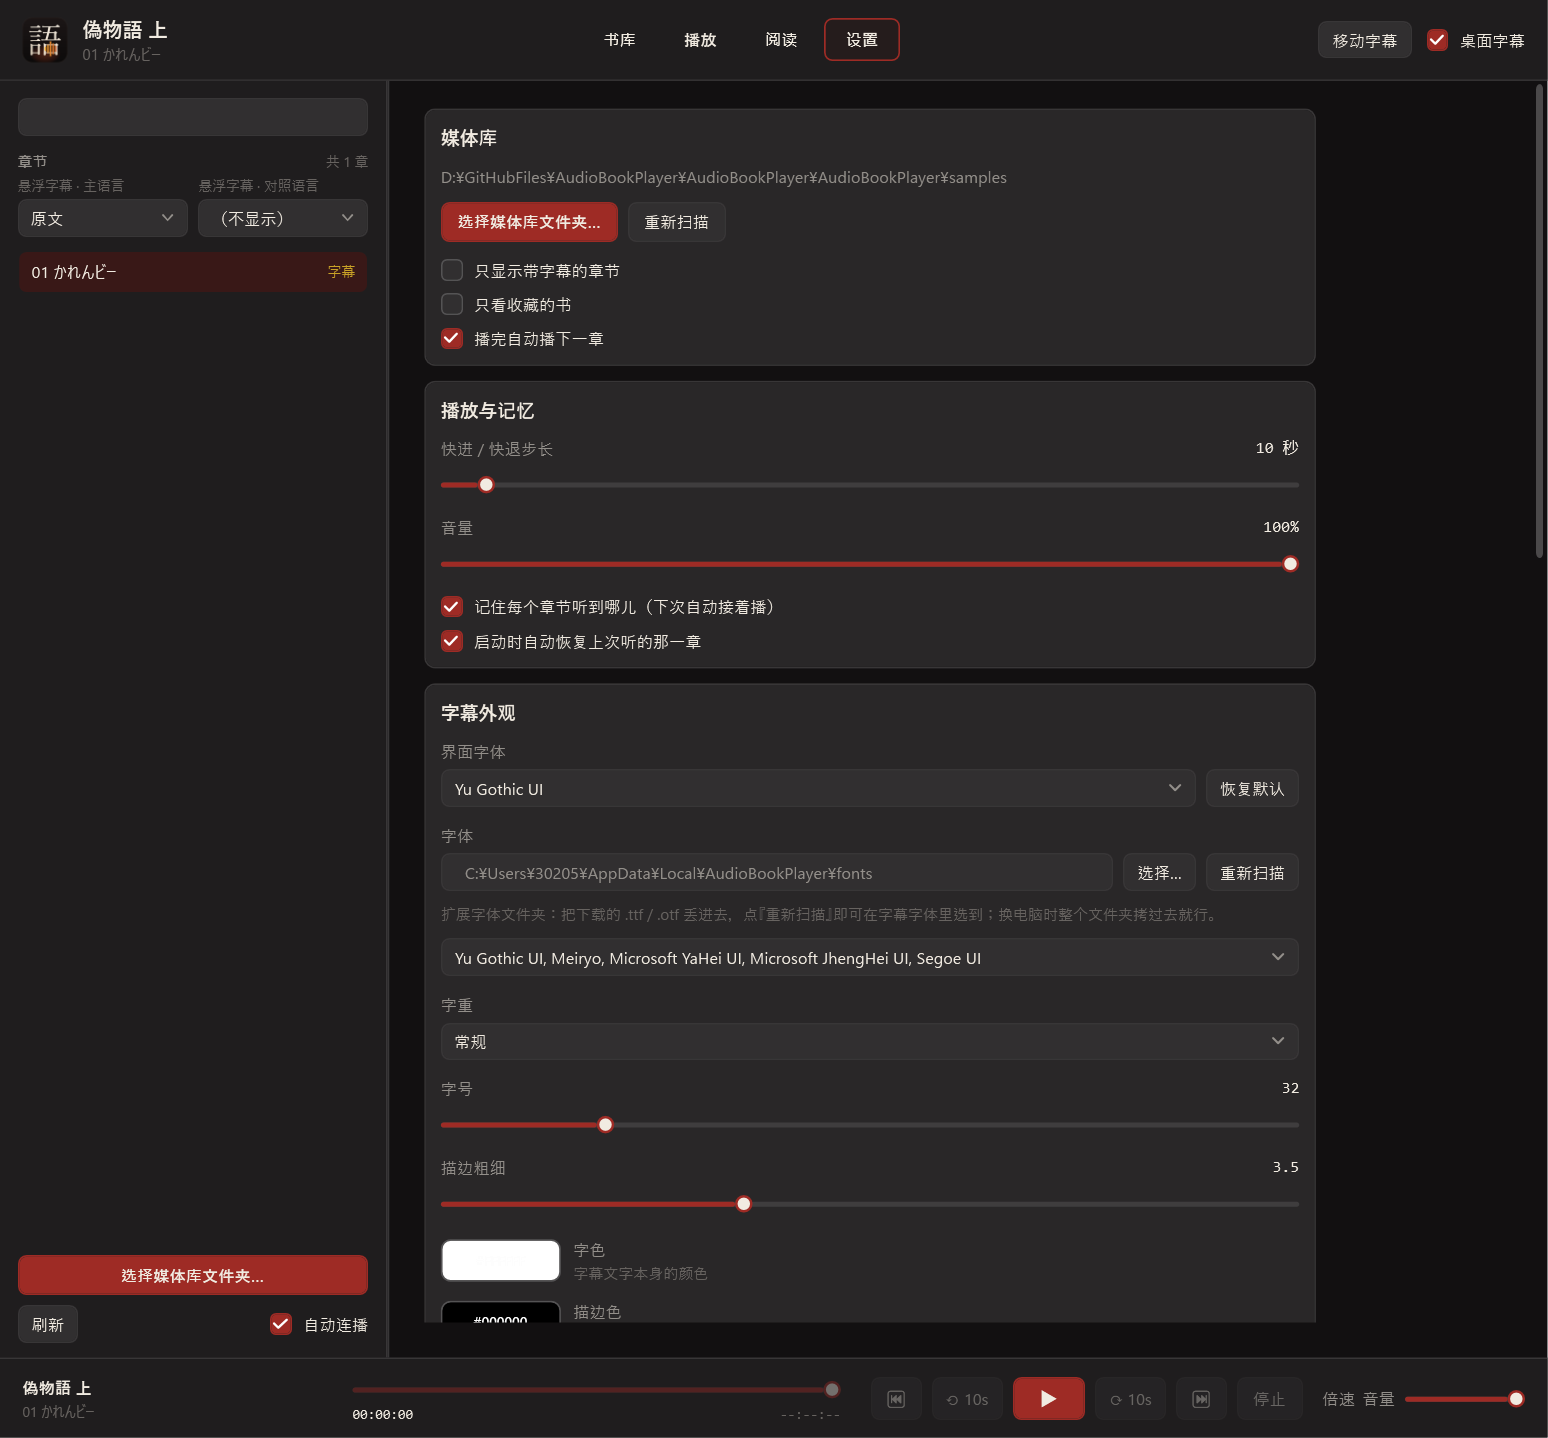
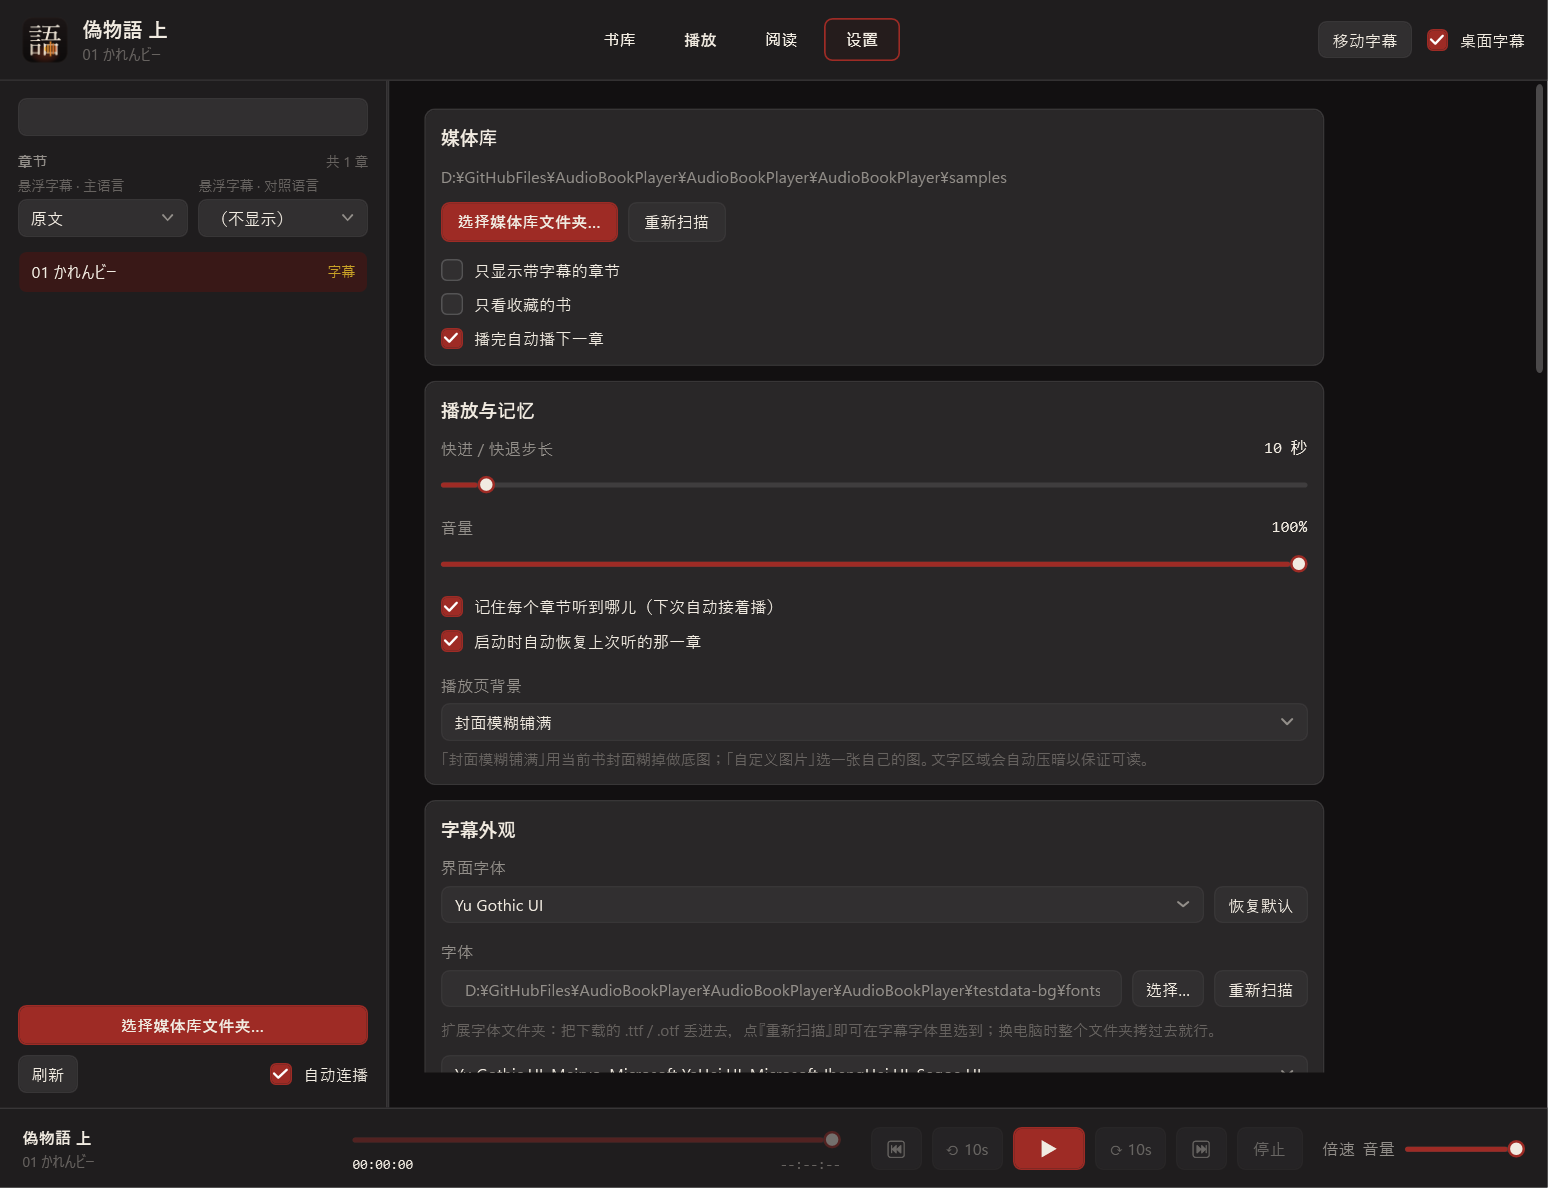
修复播放页背景下拉选项全是空白
DisplayMemberPath="Label" 绑在值元组 (string Key, string Label) 上 ——
元组的 Key/Label 只是编译期别名，运行时字段是 Item1/Item2，反射绑不上，
所以每个选项都渲染成空行。

改用真正的 Choice 类（有 Key / Label 属性），并加自检：
断言选项类型确实有这两个属性、显示名非空（防止以后又用元组）。

diff --git a/AudioBookPlayer/Diagnostics/SelfTest.cs b/AudioBookPlayer/Diagnostics/SelfTest.cs
@@ -1397,6 +1397,36 @@ namespace AudioBookPlayer.Diagnostics
             {
                 Check("任务栏缩略图", false, ex.Message);
             }
+            // ============ 10h. 下拉选项 ============
+            Section("下拉框选项");
+
+            try
+            {
+                using var choiceViewModel = new MainViewModel(
+                    settings: AppSettings.Load(Path.Combine(AppContext.BaseDirectory, "selftest-choice.json")),
+                    playbackStore: PlaybackStore.Load(Path.Combine(AppContext.BaseDirectory, "selftest-choice-playback.json")));
+
+                var modes = choiceViewModel.BackgroundModeOptions;
+
+                Check("播放页背景有三个选项", modes.Count == 3, string.Join("、", modes.Select(m => m.Label)));
+
+                // 回归：不能再用值元组（元组运行时的字段叫 Item1/Item2，
+                // DisplayMemberPath="Label" 绑不上，下拉会全是空白）
+                var labelProperty = modes[0].GetType().GetProperty("Label");
+                var keyProperty = modes[0].GetType().GetProperty("Key");
+
+                Check("选项类型真的有 Key / Label 属性（元组会绑成空白）",
+                    labelProperty != null && keyProperty != null,
+                    modes[0].GetType().Name);
+
+                Check("每个选项的显示名都不为空",
+                    modes.All(m => !string.IsNullOrWhiteSpace(m.Label)),
+                    string.Join("、", modes.Select(m => m.Label)));
+            }
+            catch (Exception ex)
+            {
+                Check("下拉框选项", false, ex.Message);
+            }
             // ============ 11. 主题与资源 ============
             Section("界面主题与资源");
 

diff --git a/AudioBookPlayer/ViewModels/MainViewModel.cs b/AudioBookPlayer/ViewModels/MainViewModel.cs
@@ -725,15 +725,15 @@ namespace AudioBookPlayer.ViewModels
         }
         // ---------------- 播放页背景 ----------------
 
-        /// <summary>背景模式选项（值 / 显示名）。</summary>
-        public static IReadOnlyList<(string Key, string Label)> PlayerBackgroundModes { get; } = new[]
+        /// <summary>背景模式选项。</summary>
+        public static IReadOnlyList<Choice> PlayerBackgroundModes { get; } = new[]
         {
-            ("Default", "默认底色"),
-            ("CoverBlur", "封面模糊铺满"),
-            ("Image", "自定义图片"),
+            new Choice("Default", "默认底色"),
+            new Choice("CoverBlur", "封面模糊铺满"),
+            new Choice("Image", "自定义图片"),
         };
 
-        public IReadOnlyList<(string Key, string Label)> BackgroundModeOptions => PlayerBackgroundModes;
+        public IReadOnlyList<Choice> BackgroundModeOptions => PlayerBackgroundModes;
 
         private string _playerBackgroundMode = "Default";
         private string _playerBackgroundImage = string.Empty;

diff --git a/AudioBookPlayer/ViewModels/Choice.cs b/AudioBookPlayer/ViewModels/Choice.cs
@@ -1,0 +1,24 @@
+namespace AudioBookPlayer.ViewModels
+{
+    /// <summary>
+    /// 下拉框里的一个选项（键 / 显示名）。
+    ///
+    /// 为什么不直接用值元组 (string Key, string Label)：
+    /// DataTemplate / DisplayMemberPath 走的是反射，而值元组的 Key/Label 只是编译期别名，
+    /// 运行时字段叫 Item1/Item2 —— 绑上去每个选项都是空白（踩过）。
+    /// </summary>
+    public sealed class Choice
+    {
+        public Choice(string key, string label)
+        {
+            Key = key;
+            Label = label;
+        }
+
+        public string Key { get; }
+
+        public string Label { get; }
+
+        public override string ToString() => Label;
+    }
+}
